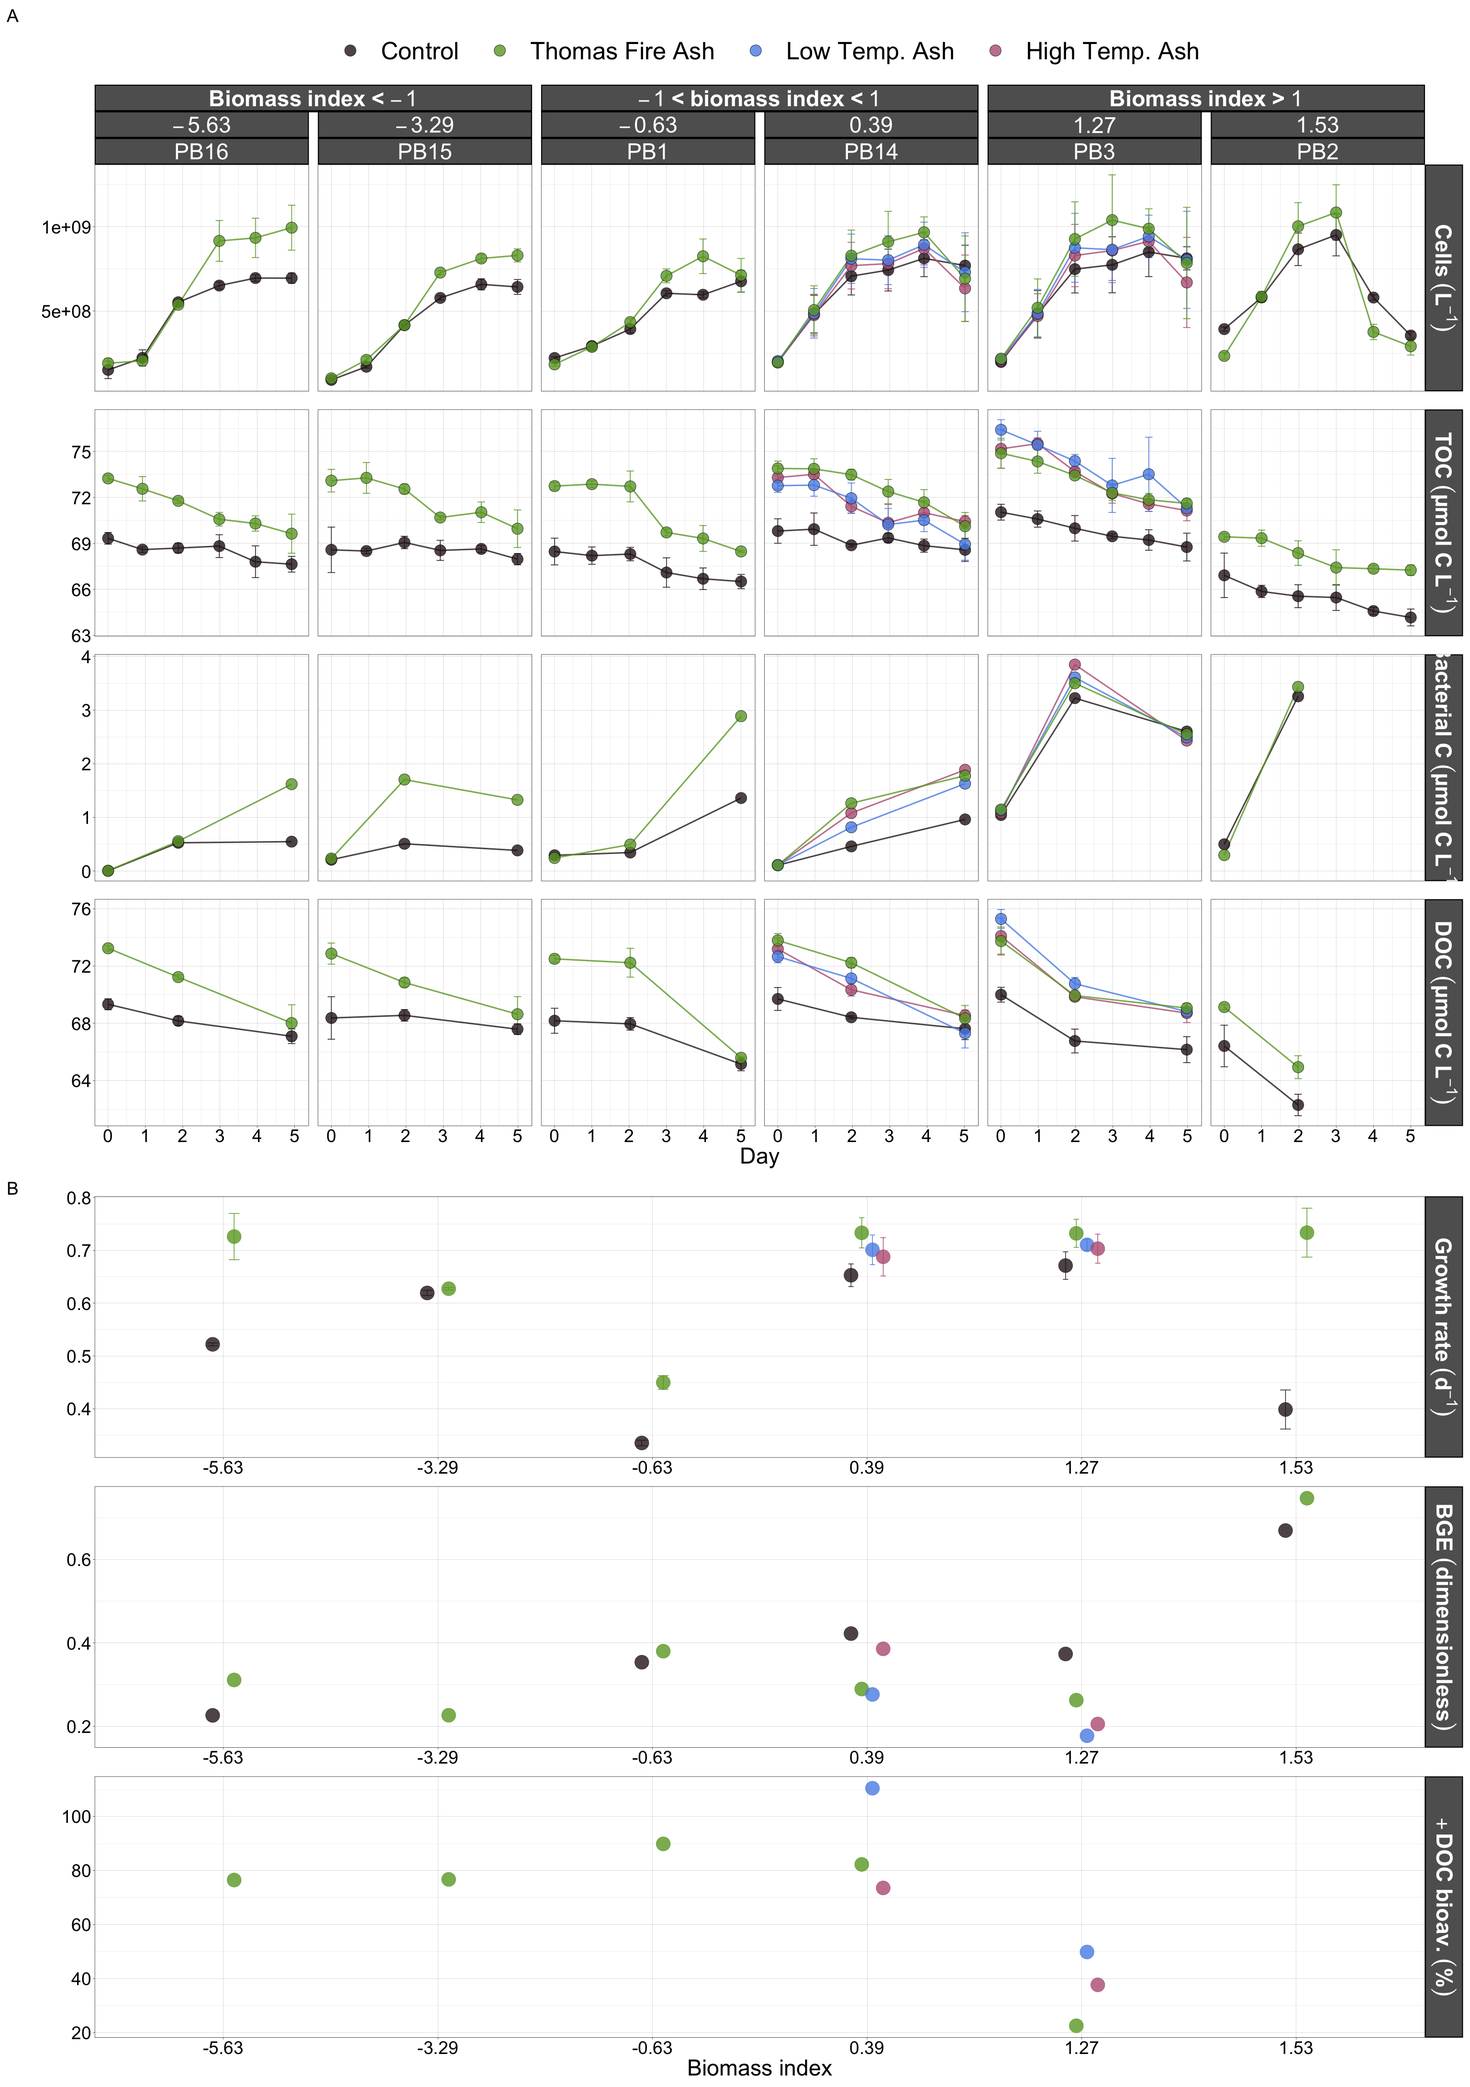
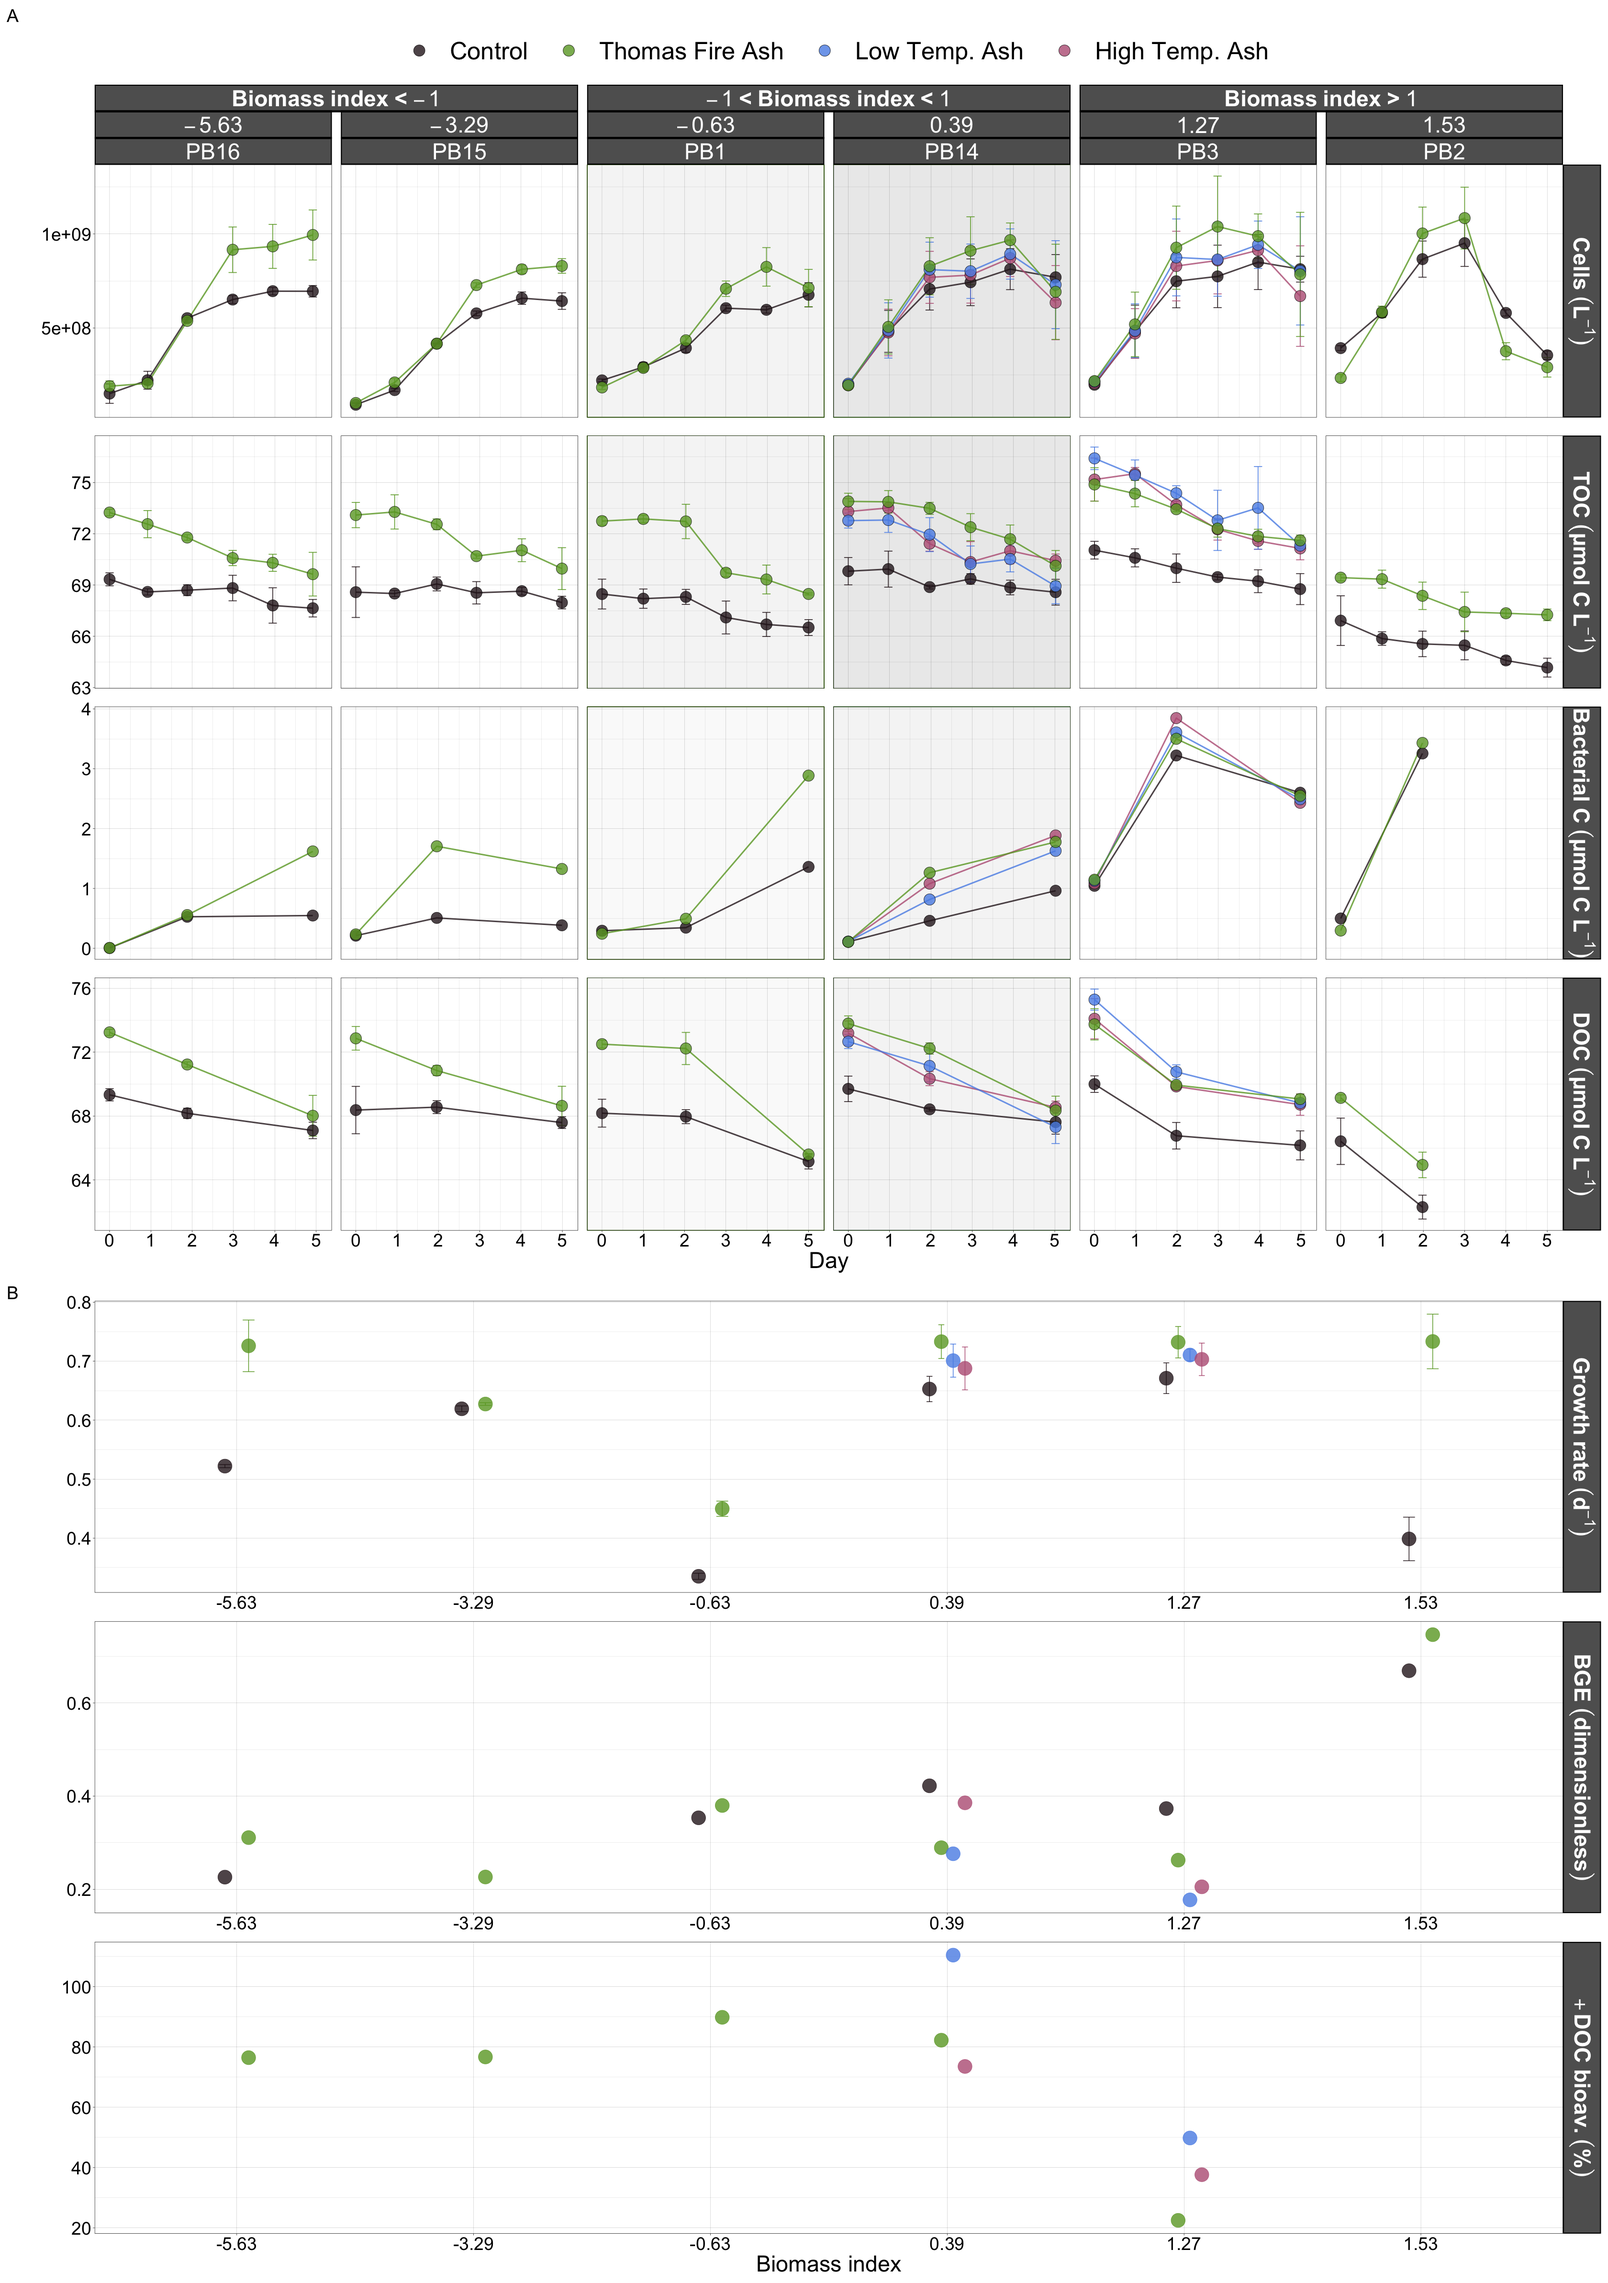
modify figs for clarity

diff --git a/knitted/6_dilution_exps.md b/knitted/6_dilution_exps.md
@@ -1,7 +1,7 @@
 Phytoplankton & zooplankton dilution experiments
 ================
 Nick Baetge
-compiled most recently on 15 April, 2024
+compiled most recently on 06 May, 2024
 
 ``` r
 library(tidyverse)
@@ -178,7 +178,7 @@ plot_levels = c(
   "bold(Lower~biomass~index)",
   "bold(Biomass~index~'<'~-1)",
   "bold(Higher~biomass~index)",
-  "bold(-1~'<'~biomass~index~'<'~1)",
+  "bold(-1~'<'~Biomass~index~'<'~1)",
   "bold(Biomass~index~'>'~1)",
   "bold(Growth~(d^-1))",
   "bold(Grazing~(d^-1))",
@@ -216,8 +216,8 @@ p_rates <- rates %>%
   ) %>%
   distinct() %>% 
  mutate(biomass2 = case_when(composite_z <= -1 ~ "bold(Biomass~index~'<'~-1)",
-                              composite_z > -1 & composite_z < 1 ~ "bold(-1~'<'~biomass~index~'<'~1)",
-                              composite_z >= 1 ~ "bold(Biomass~index~'>'~1)"))
+                              composite_z > -1 & composite_z < 1 ~ "bold(-1~'<'~Biomass~index~'<'~1)",
+                              composite_z >= 1 ~ "bold(Biomass~index~'>'~1)")) 
 
 p_rates_summary <- rates %>%
   select(exp:phyto, biomass, composite_z, ave_mu, ave_g, ave_r) %>%
@@ -252,8 +252,9 @@ p_rates_summary <- rates %>%
       )
   ) %>% 
   mutate(biomass2 = case_when(composite_z <= -1 ~ "bold(Biomass~index~'<'~-1)",
-                              composite_z > -1 & composite_z < 1 ~ "bold(-1~'<'~biomass~index~'<'~1)",
-                              composite_z >= 1 ~ "bold(Biomass~index~'>'~1)"))
+                              composite_z > -1 & composite_z < 1 ~ "bold(-1~'<'~Biomass~index~'<'~1)",
+                              composite_z >= 1 ~ "bold(Biomass~index~'>'~1)")) %>% 
+  left_join(., p_rates %>% select(phyto, rate) %>% distinct() %>%  mutate(flabel = 1:n()))
 ```
 
 ``` r
@@ -299,7 +300,8 @@ dots <- ggplot(p_rates_summary ,
     color = ""
   ) +
   theme_linedraw() +
-  custom.theme
+  custom.theme +
+  geom_label(aes(x = 6, y = -0.5, label = flabel), size = 14)
 ```
 
 ``` r
@@ -312,6 +314,8 @@ boxes <-
     width = 0.5,
     position = position_dodge(0.4)
   ) +
+  geom_rect(data = subset(p_rates, biomass2 == "bold(-1~'<'~Biomass~index~'<'~1)"), fill = "light grey",xmin = -Inf,xmax = Inf,
+            ymin = -Inf,ymax = Inf, alpha = 0.01) +
   geom_jitter(
     aes(color = factor(trt, levels = plot_levels)),
     size = 7,

diff --git a/knitted/5_bacteria_dom_exps.md b/knitted/5_bacteria_dom_exps.md
@@ -1,7 +1,7 @@
 Bacteria and DOM experiments
 ================
 Nick Baetge
-compiled most recently on 01 May, 2024
+compiled most recently on 06 May, 2024
 
 ``` r
 library(tidyverse)
@@ -627,7 +627,7 @@ plot_levels = c(
   "bold(Lower~biomass~index)",
   "bold(Biomass~index~'<'~-1)",
   "bold(Higher~biomass~index)",
-  "bold(-1~'<'~biomass~index~'<'~1)",
+  "bold(-1~'<'~Biomass~index~'<'~1)",
   "bold(Biomass~index~'>'~1)",
   "bold(Cells~(L^-1))",
   "bold(TOC~(µmol~C~L^-1))",
@@ -689,7 +689,7 @@ fig4_data <- p5_prod %>%
     )
   ) %>% 
    mutate(biomass2 = case_when(composite_z <= -1 ~ "bold(Biomass~index~'<'~-1)",
-                              composite_z > -1 & composite_z < 1 ~ "bold(-1~'<'~biomass~index~'<'~1)",
+                              composite_z > -1 & composite_z < 1 ~ "bold(-1~'<'~Biomass~index~'<'~1)",
                               composite_z >= 1 ~ "bold(Biomass~index~'>'~1)"))
 ```
 
@@ -702,6 +702,8 @@ curves <- ggplot(fig4_data[!is.na(fig4_data$val), ],
                    color = factor(trt, levels = plot_levels),
                    fill = factor(trt, levels = plot_levels)
                  )) +
+   geom_rect(data = subset(fig4_data[!is.na(fig4_data$val), ], biomass2 == "bold(-1~'<'~Biomass~index~'<'~1)"), fill = "light grey",xmin = -Inf,xmax = Inf,
+            ymin = -Inf,ymax = Inf, alpha = 0.01) +
   geom_errorbar(
     aes(ymin = val - sd, ymax = val + sd),
     width = 0.2,
